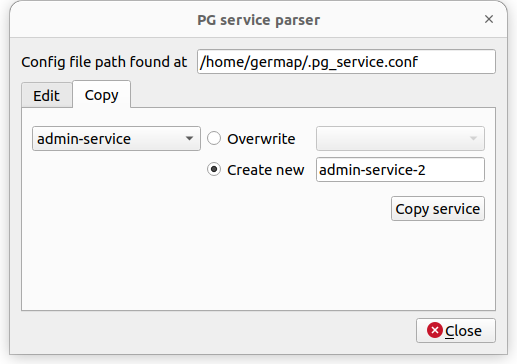
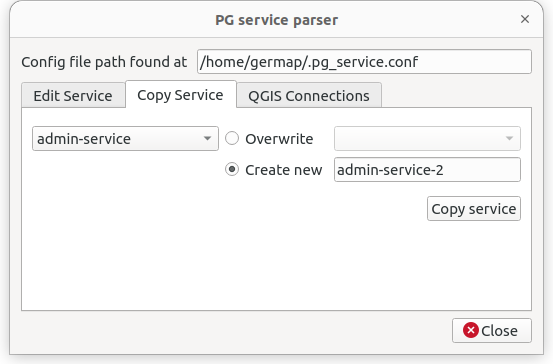
Update README (screenshots and QGIS Connection to PG service section) (#54)

diff --git a/README.md b/README.md
@@ -24,11 +24,14 @@ Clients like QGIS will directly read your `pg_service.conf` file from any of the
 <img src="https://raw.githubusercontent.com/opengisch/qgis-pg-service-parser-plugin/main/images/edit_service.png" alt="Edit service"/>
 
 
-
 ### Copy PG service entries
 
 <img src="https://raw.githubusercontent.com/opengisch/qgis-pg-service-parser-plugin/main/images/copy_service.png" alt="Copy service"/>
 
+
+### QGIS Connection to a PG service
+
+<img src="https://raw.githubusercontent.com/opengisch/qgis-pg-service-parser-plugin/main/images/qgis_connection_to_service.png" alt="QGIS Connection to service"/>
 
 
 ### For devs
